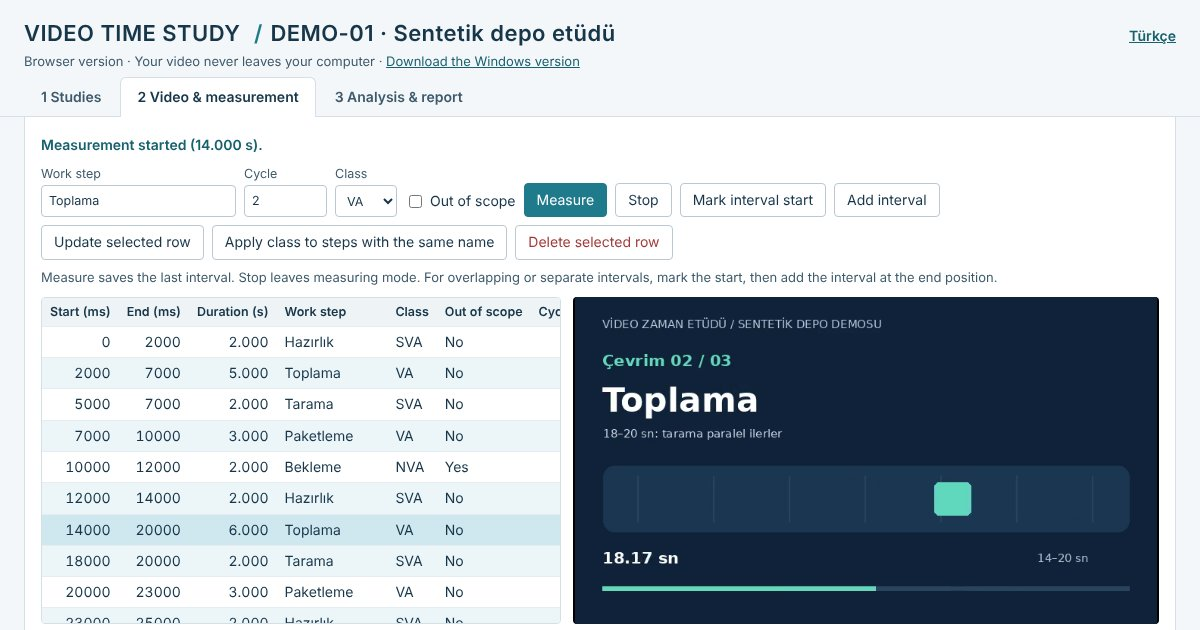
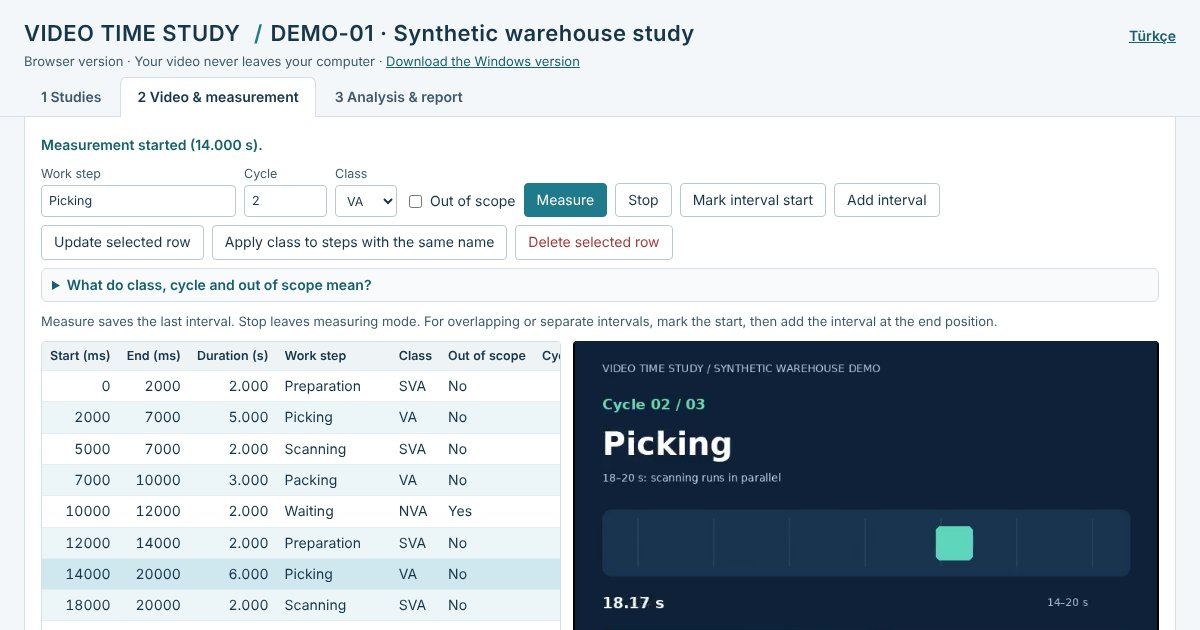
Video Zaman Etüdü: güncel ekran görüntüleri (v1.4) ve İngilizce demo
- TR/EN ekran görüntüleri ve paylaşım görselleri uygulamanın güncel hâlinden
  (analiz özeti, öğretici içerik); EN görüntülerde İngilizce demo verisi ve video
- EN demo metni: “Open demo study”, Türkçe adım adı notu kaldırıldı

Claude-Session: https://claude.ai/code/session_01QKvCnwVT5AbKpqKRF18aBC

Changed region(s): [[0.0308, 0.4222, 0.9867, 1.0], [0.3392, 0.0302, 0.5858, 0.0905], [0.0308, 0.3016, 0.0925, 0.3317]]

diff --git a/src/data/projects.ts b/src/data/projects.ts
@@ -93,7 +93,7 @@ export const PROJECTS: Project[] = [
     ogEn: '/img/video-zaman-etudu/og-en.jpg',
     demo: {
       tr: 'Hesap ve kurulum gerekmez. Uygulamayı açıp “Demo etüdü aç” bağlantısına tıklayın: üç çevrimlik sentetik depo videosu ve hazır ölçümler yüklenir, analiz ekranında sonuçlar görünür. Kendi videonuzla yeni etüt de başlatabilirsiniz; etütler yalnızca tarayıcınızda saklanır, video hiçbir sunucuya yüklenmez. Windows sürümü aynı etüt paketini (.vzetud) açar.',
-      en: 'No account or install needed. Open the app and click “Demo etüdü aç” (open demo study): a three-cycle synthetic warehouse video and ready measurements load, and the analysis screen shows the results. You can also start a study with your own video; studies stay in your browser and the video is never uploaded. The Windows version (Turkish interface) opens the same study package (.vzetud). The browser app opens in English from this page; the demo’s step names and video labels are in Turkish.',
+      en: 'No account or install needed. The app opens in English from this page: click “Open demo study” and a three-cycle synthetic warehouse video with ready measurements loads; the analysis screen shows the results. You can also start a study with your own video; studies stay in your browser and the video is never uploaded. The Windows version (Turkish interface) opens the same study packages (.vzetud).',
     },
     tr: {
       tagline: 'Videodan iş adımlarını ölçen, standart süreyi hesaplayan ve Excel’e aktaran zaman etüdü aracı. Tarayıcıda ve Windows’ta çalışır.',
